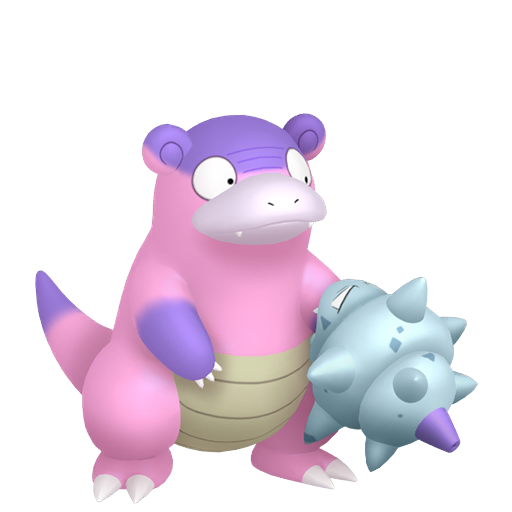
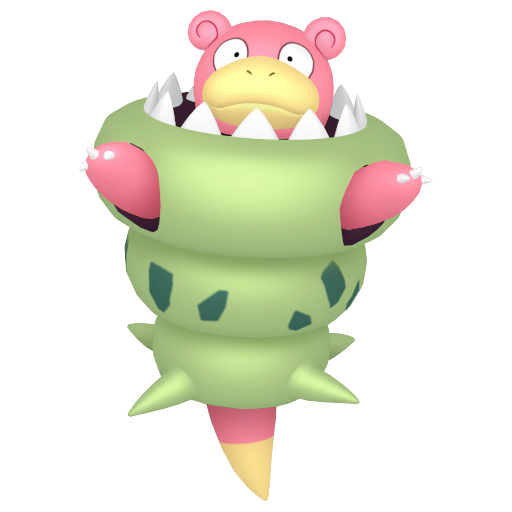
pic change

diff --git a/src/components/details/PokemonDetails.js b/src/components/details/PokemonDetails.js
@@ -34,7 +34,6 @@ export default function PokemonDetails({P}) {
     useEffect(() => {
         pokemonData(pokemon.species.url)
         .then(res => {
-            console.log(res)
             setNormalForm(res)
         })
         .catch(err => console.log('There was an ERROR: ', err));
@@ -69,28 +68,6 @@ export default function PokemonDetails({P}) {
                     return newId[digitLen]
                 }
 
-
-                const pokemonImage = (pokemon) => {
-                    const gender = () => {
-                        var genderDif = pokemon.has_gender_differences;
-                        var genderRate = pokemon.gender_rate;
-                        var varieties = pokemon.varieties.filter(obj => {
-                            return obj.pokemon.name.includes('-male')
-                        });
-                
-                        if( genderDif && varieties.length === 0) {
-                            return 'md_n_00000000_f_n.png'
-                        } else if((!genderDif && genderRate === 0) || (genderDif && genderRate === 4)) {
-                            return 'mo_n_00000000_f_n.png'
-                        } else if(!genderDif && genderRate === 8 ) {
-                            return 'fo_n_00000000_f_n.png'
-                        } else if(!genderDif && genderRate >= 1) {
-                            return 'mf_n_00000000_f_n.png'
-                        } else return 'uk_n_00000000_f_n.png'
-                    }
-                    return `${path}${pokemonId()}_000_${gender()}`
-                }
-
                 const prettyText = (name) => {
                     let capName = name.charAt(0).toUpperCase() + name.slice(1)
                     let lowerd = name.replace(`${pokemonName}`, '').replaceAll("-", ' ').split(' ');
@@ -101,7 +78,6 @@ export default function PokemonDetails({P}) {
                 }
 
                 const pokemonForms = () => {
-                    console.log(pokemon)
                     var genderDif = pokemon.has_gender_differences;
             
                     var otherVariates = pokemon.varieties.filter(obj => {
@@ -111,13 +87,15 @@ export default function PokemonDetails({P}) {
                         && !obj.pokemon.name.includes('fmale')
                         && !obj.pokemon.name.includes('male')
                         && !obj.pokemon.name.includes('alola')
-                        && !obj.pokemon.name.includes('galar');
+                        && !obj.pokemon.name.includes('galar')
+                        && !obj.pokemon.name.includes('totem');
                         return form;
                     })
-            
+                    var otherForms = pokemon.forms;
                     var regionalVariates = pokemon.varieties.filter(obj => {
-                        let form = obj.pokemon.name.includes('alola') 
-                        || obj.pokemon.name.includes('galar')
+                        let form = !obj.pokemon.name.includes('totem')
+                        && (obj.pokemon.name.includes('alola') 
+                        || obj.pokemon.name.includes('galar')) 
                         return form;
                     })
             
@@ -167,6 +145,14 @@ export default function PokemonDetails({P}) {
                     })
 //Get gender differnece
                     const primaryForms = new Promise ((resolve, reject) => {
+                        const formId = (id) => {
+                            var digitLen = id.toString().length;
+                            var newId = {
+                                1: `00${id}`,
+                                2: `0${id}`,
+                            }
+                            return newId[digitLen]
+                        }
                         var url = pokemon.gender_rate === -1 
                             ? 'uk_n_00000000_f_n.png' 
                                 : pokemon.gender_rate === 8
@@ -191,7 +177,6 @@ export default function PokemonDetails({P}) {
                                     return genderFormDif.length === i+1 ? resolve(normal) : '';
                                 })
                             } else if(genderDif) {
-                                console.log('genderrr')
                                 normal.normal.push(
                                     {
                                         'type': `Male`, 
@@ -206,18 +191,8 @@ export default function PokemonDetails({P}) {
                                 )
                                 return resolve(normal);
                             } 
-                        } else if((otherVariates.length > 0) && (pokemonName !== 'pichu')) {
-
-                            const formId = (id) => {
-                                var digitLen = id.toString().length;
-                                var newId = {
-                                    1: `00${id}`,
-                                    2: `0${id}`,
-                                }
-                                return newId[digitLen]
-                            }
-
-
+                        } else if((otherVariates.length > 0) && (pokemonName !== 'pichu')
+                            && (otherForms.length === 1)) {
                             async function getOtherVariates() {
                                 for (const obj of otherVariates) {
                                     const res = await pokemonDetails(obj.pokemon.url);
@@ -233,6 +208,37 @@ export default function PokemonDetails({P}) {
                               }
                               getOtherVariates()
 
+                        } else if((otherForms.length > 1) && (pokemon.name !=='mothim')) {
+                            async function getOtherVariates() {
+
+                                for (const obj of otherForms) {
+                                    const res = await pokemonDetails(obj.url);
+
+                                    normal.normal.push(
+                                        {
+                                            'type': `${prettyText(obj.name)}`, 
+                                            'url': `${path}${pokemonId()}_${formId(normal.normal.length)}_${url}`,
+                                            'details': {...res, ...pokemon }
+                                        }
+                                    )
+                                }
+                                resolve(normal)
+                              }
+                              getOtherVariates()
+                        } else if (pokemon.name === 'mothim') {
+                            async function getOtherVariates() {
+                                
+                                    const res = await pokemonDetails(otherForms[0].url);
+                                    normal.normal.push(
+                                        {
+                                            'type': `${pokemon.name}`, 
+                                            'url': `${path}${pokemonId()}_${formId(normal.normal.length)}_${url}`,
+                                            'details': {...res, ...pokemon }
+                                        }
+                                    )
+                                resolve(normal)
+                              }
+                              getOtherVariates()
                         } else reject()
                     })
 //Get mega evolution Info
@@ -240,14 +246,28 @@ export default function PokemonDetails({P}) {
                         if(mega.length > 0 ) {
                             let url = pokemon.gender_rate === -1 
                             ? 'uk_n_00000000_f_n.png' : 'mf_n_00000000_f_n.png';
-        
-                            if(mega.length === 1 ) {
+                            if((mega.length === 1) && (pokemonName !== 'slowbro')) {
                                 pokemonDetails(mega[0].pokemon.url)
                                 .then(res => {
                                     megas.mega.push(
                                         {
                                             'type': 'Mega', 
                                             'url': `${path}${pokemonId()}_001_${url}`,
+                                            'details': res
+                                        }
+                                    )
+                                })
+                                .then(() => {
+                                    resolve(megas)
+                                })
+                                .catch(err => console.log(err))
+                            } else if(pokemonName === 'slowbro') {
+                                pokemonDetails(mega[0].pokemon.url)
+                                .then(res => {
+                                    megas.mega.push(
+                                        {
+                                            'type': 'Mega', 
+                                            'url': `${path}${pokemonId()}_002_${url}`,
                                             'details': res
                                         }
                                     )
@@ -331,12 +351,10 @@ export default function PokemonDetails({P}) {
     }, [allForms])
 
     useEffect(() => {
-        console.log(pokemonForms)
         pokemonForms && switchForm(0, 'normal', 0)
     }, [pokemonForms])
 
     useEffect(() => {
-        console.log(formDetails)
         formDetails && setLoading(false)
     }, [formDetails])
 
@@ -358,7 +376,7 @@ export default function PokemonDetails({P}) {
                 <p id="species"><span>Species: </span>{genera(pokemon.genera)}</p>
                 <p id="weight"><span>Weight: </span>{weightHeight(pokemon.weight)} kg</p>
                 <p id="height"><span>Height: </span>{weightHeight(pokemon.height)} m</p>
-                <Type types={pokemon.types}/>
+                <Type types={formDetails.details.types}/>
             </div>
             <div className="flex-container">
                 <Stats />

diff --git a/src/components/details/PokemonDetail.js b/src/components/details/PokemonDetail.js
@@ -274,8 +274,8 @@ export default function PokemonDetails({P}) {
                         if(mega.length > 0 ) {
                             let url = pokemon.gender_rate === -1 
                             ? 'uk_n_00000000_f_n.png' : 'mf_n_00000000_f_n.png';
-        
-                            if(mega.length === 1 ) {
+                            console.log(pokemon.name)
+                            if((mega.length === 1) && (pokemonName !== 'slowbro') ) {
                                 pokemonDetails(mega[0].pokemon.url)
                                 .then(res => {
                                     megas.mega.push(
